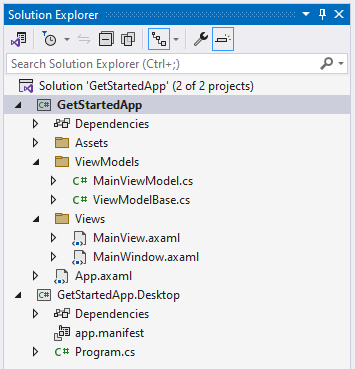
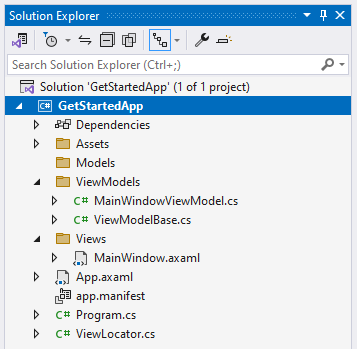
Update Test Drive section of Get Started docs to be consistent between Visual Studio, CLI, and Rider

Changed region(s): [[0.0, 0.0, 0.9915, 1.0], [0.093, 0.9456, 0.1239, 0.9742], [0.093, 0.8883, 0.1239, 0.9169]]

diff --git a/docs/get-started/test-drive/create-a-project.md b/docs/get-started/test-drive/create-a-project.md
@@ -53,19 +53,15 @@ The template will create a new solution and project.
   <TabItem value="vs" label="Visual Studio">
 
 - In **Visual Studio**, click **Create a new project**.
-- Type `Avalonia` in the search box.
-- Click **Avalonia Application** then click **Next**.
+- Type `Avalonia MVVM` in the search box.
+- Click **Avalonia .NET MVVM App** then click **Next**.
 
 <img className="center" src={VsFindAvaloniaTemplateScreenshot} />
 
-- Name the project `GetStartedApp`, and click **Create**.
+- Name the project `GetStartedApp`, and click **Next**.
 
-- The next screen allows selecting the platforms you wish to target: click **Desktop** then click **Next**.
-
-- The next screen allows selecting a design pattern: click **ReactiveUI** then click **Create**.
-
-The template will create a new solution and two new projects. `GetStartedApp` is the main project that is shared between each platform. `GetStartedApp.Desktop` is the platform-specific project for the desktop platform.
-
+- The next screen allows selecting a design pattern: select **ReactiveUI** as the MVVM Toolkit then click **Create**.
+- The template will create a new solution and project.
 <img className="center" src={VsNewAvaloniaProjectScreenshot} />
 
   </TabItem>
@@ -91,9 +87,6 @@ Press the **Run** button in the Rider toolbar:
 
   </TabItem>
   <TabItem value="vs" label="Visual Studio">
-
-  Right-click on the `GetStartedApp.Desktop` project and select **Set as Startup Project**.
-
   Hit `F5` to run the project.
 
   </TabItem>

diff --git a/docs/get-started/test-drive/main-window.md b/docs/get-started/test-drive/main-window.md
@@ -50,11 +50,13 @@ There may be a red exclamation icon (top left) and the message **The designer is
 :::
 
 - Build the project.
-- Scroll the preview pane to the left to view the preview outline and the text displayed in the top left corner.
+- You will see a preview of the greeting message in the center of the designer section.
 
 <img className="center" src={VsPreviewPaneScreenshot} alt="" />
 
-- Remove the binding `{Binding Greeting}` and change the text `<TextBlock Text="`my text`" ...`
+- Remove the binding `{Binding Greeting}` and change the value of the text attribute, e.g.
+
+    `<TextBlock Text="Hello world!" .../>`
 
 You will see the new text in the preview pane change as you type. This is an example of the Avalonia **design-time preview behaviour** that will help you develop user interface presentation accurately and quickly.
 

diff --git a/docs/get-started/test-drive/response-to-an-event.md b/docs/get-started/test-drive/response-to-an-event.md
@@ -44,7 +44,7 @@ The partial class `MainWindow` corresponds to the window object that is created 
 ```xml
 <Window 
     ...
-    x:Class="GetStartedApp.MainWindow" >
+    x:Class="GetStartedApp.Views.MainWindow" >
 </Window>
 ```
 
@@ -83,7 +83,7 @@ If you're using an IDE you will see the Avalonia UI Intellisense as you type.
 <img className="center" src={ButtonIntellisenseClickScreenshot} alt="" />
 :::
 
-- Run the app and click the button.
+- Run the app (in debug mode) and click the button.
 
 You should see the result on the Output window for Debug, like this:
 

diff --git a/docs/get-started/test-drive/the-design-preview.md b/docs/get-started/test-drive/the-design-preview.md
@@ -15,7 +15,7 @@ Examine the XAML for the `<Window>` tag. It will look like this:
         xmlns:d="http://schemas.microsoft.com/expression/blend/2008"
         xmlns:mc="http://schemas.openxmlformats.org/markup-compatibility/2006"
         mc:Ignorable="d" d:DesignWidth="400" d:DesignHeight="550"
-        x:Class="GetStartedApp.MainWindow"
+        x:Class="GetStartedApp.Views.MainWindow"
         Title="GetStartedApp">
 ```
 
